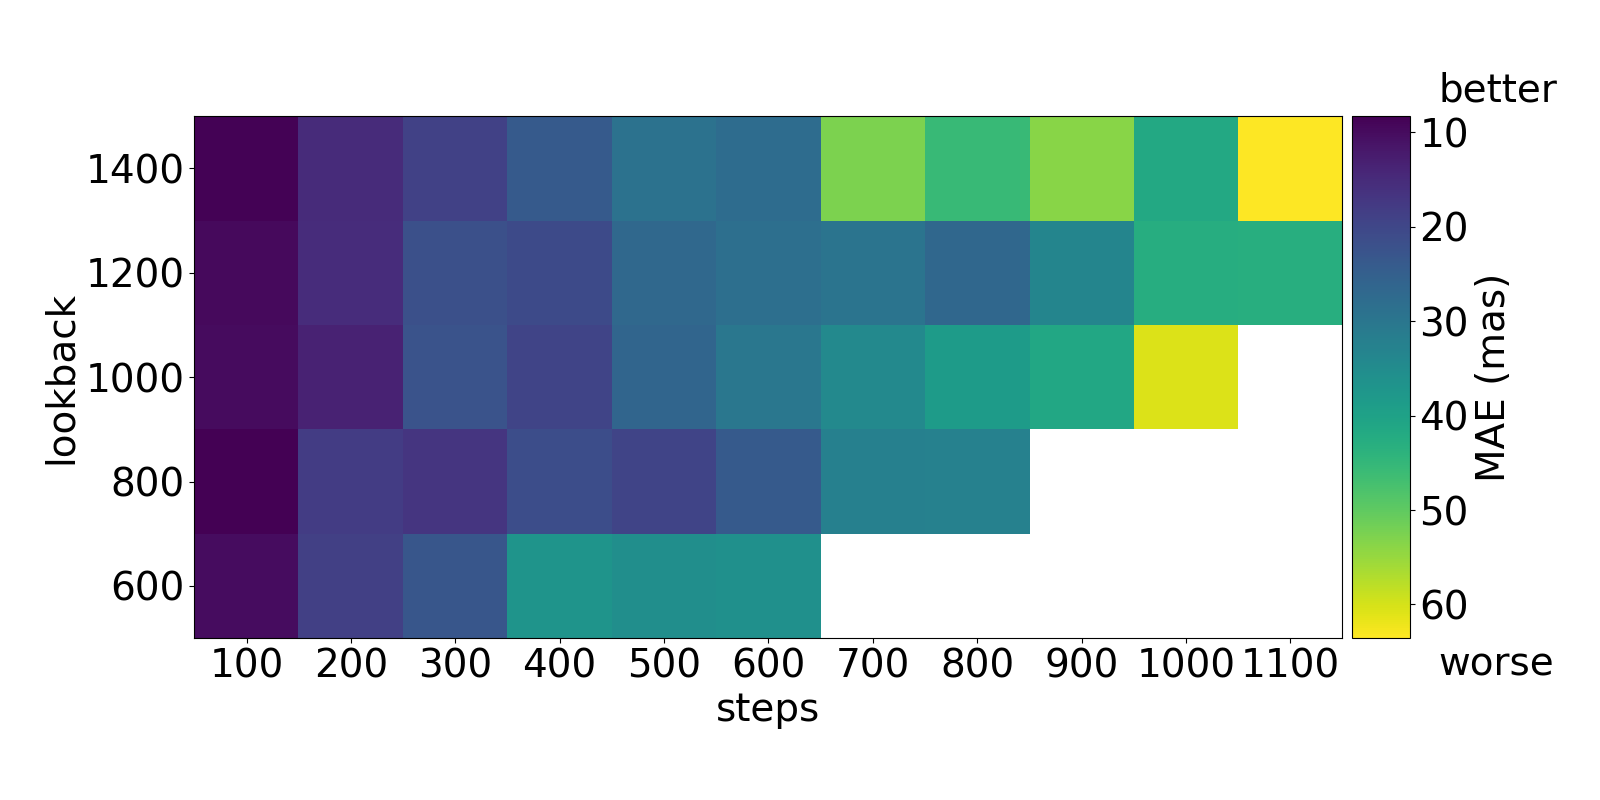
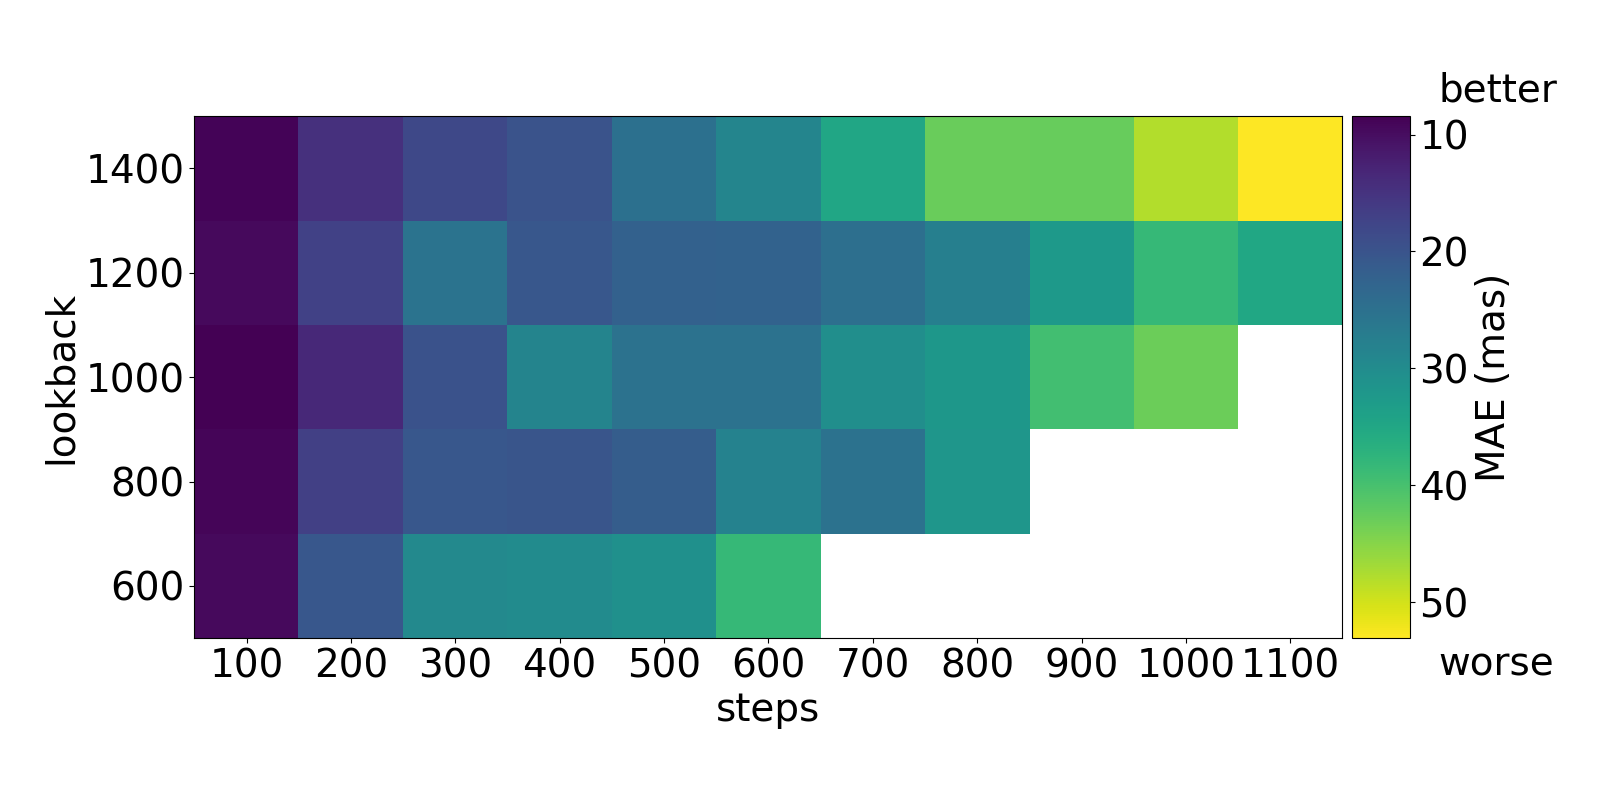
final figures

diff --git a/visualizer.py b/visualizer.py
@@ -68,7 +68,15 @@ def plot_grid_graph(lookbacks, steps, metrics,
                     reverse_colorbar_num=False,
                     reverse_colorbar_color=False,
                     cmap='viridis',
-                    font_size=28): 
+                    font_size=28,
+                    vrange=None): 
+    """
+    参数说明:
+    vrange: tuple or None
+        - None: 自动使用数据的最小值和最大值
+        - (vmin, vmax): 指定colorbar的范围
+          如果数据超出此范围,则自动扩展到数据实际范围
+    """
     
     # 调整字号
     plt.rcParams.update({'font.size': font_size})
@@ -84,7 +92,7 @@ def plot_grid_graph(lookbacks, steps, metrics,
     lookback_idx = {lb: i for i, lb in enumerate(unique_lookbacks)}
     steps_idx = {st: j for j, st in enumerate(unique_steps)}
 
-    # 初始化矩阵，用 nan 表示缺失
+    # 初始化矩阵,用 nan 表示缺失
     heatmap = np.full((len(unique_lookbacks), len(unique_steps)), np.nan)
 
     # 填充数据
@@ -92,19 +100,33 @@ def plot_grid_graph(lookbacks, steps, metrics,
         i, j = lookback_idx[lb], steps_idx[st]
         heatmap[i, j] = val
 
+    # 确定 colorbar 的范围
+    data_min = np.nanmin(heatmap)
+    data_max = np.nanmax(heatmap)
+    
+    if vrange is None:
+        # 不指定范围,使用数据范围
+        vmin, vmax = data_min, data_max
+    else:
+        # 指定了范围
+        vmin_param, vmax_param = vrange
+        # 如果数据超出参数范围,则以数据为准
+        vmin = min(vmin_param, data_min)
+        vmax = max(vmax_param, data_max)
+
     # 绘制图像
     fig, ax = plt.subplots(figsize=figsize)
 
-    # 如果传入的是字符串，转为 colormap 对象
+    # 如果传入的是字符串,转为 colormap 对象
     if isinstance(cmap, str):
         cmap = plt.get_cmap(cmap)
     cmap.set_bad(color='white')  # nan 填充为白色
 
-    # 逆转colorbar颜色，使大数对应暗色，小数对应亮色
+    # 逆转colorbar颜色,使大数对应暗色,小数对应亮色
     if reverse_colorbar_color:
         cmap = cmap.reversed()   # 反向颜色映射
 
-    im = ax.imshow(heatmap, cmap=cmap, origin='lower')
+    im = ax.imshow(heatmap, cmap=cmap, origin='lower', vmin=vmin, vmax=vmax)
 
     # 设置坐标轴刻度为对应标签
     ax.set_xticks(range(len(unique_steps)))
@@ -112,7 +134,7 @@ def plot_grid_graph(lookbacks, steps, metrics,
     ax.set_yticks(range(len(unique_lookbacks)))
     ax.set_yticklabels(unique_lookbacks)
 
-    # 添加 colorbar，并让它和图像高度匹配
+    # 添加 colorbar,并让它和图像高度匹配
     divider = make_axes_locatable(ax)
     cax = divider.append_axes("right", size="5%", pad=0.1)
     cbar = plt.colorbar(im, cax=cax)
@@ -122,7 +144,7 @@ def plot_grid_graph(lookbacks, steps, metrics,
     label = metric_name if not unit else f"{metric_name} ({unit})"
     cbar.set_label(label)
 
-    # 倒置 colorbar，使顶部为小值（better），底部为大值（worse）
+    # 倒置 colorbar,使顶部为小值(better),底部为大值(worse)
     if reverse_colorbar_num:
         cbar.ax.invert_yaxis()
 
@@ -137,4 +159,3 @@ def plot_grid_graph(lookbacks, steps, metrics,
 
     plt.tight_layout()
     plt.show()
-

diff --git a/main.py b/main.py
@@ -395,16 +395,17 @@ def plot_main(repo_path: str, data_path: str):
     data = DataManager(repo_path, excel_filename=data_path)
     plot_grid_graph(data.get_column_data('lookback'),
                     data.get_column_data('steps'),
-                    data.get_column_data('overall_mae'),
+                    data.get_column_data('overall_pcc'),
                     title='',
-                    metric_name='MAE',
-                    unit='mas',
-                    scale=1000.0,
+                    metric_name='Corrcoef',
+                    unit='',
+                    scale=1.0,
                     figsize=(16, 8),
-                    reverse_colorbar_num=True,
-                    reverse_colorbar_color=False,
+                    reverse_colorbar_num=False,
+                    reverse_colorbar_color=True,
                     cmap='viridis',
-                    font_size=28)
+                    font_size=28,
+                    vrange=(0.701, 0.999))
 
 def demo_different_scalers():
     """演示不同scaler的使用"""
@@ -510,6 +511,10 @@ if __name__ == "__main__":
                  data_path=args.dataname)
 
 
-    
-    # 或者运行scaler演示
-    # demo_different_scalers()
+"""
+最终文章用模型：
+mae
+mse2
+mse-corr3
+mse-int3
+"""
